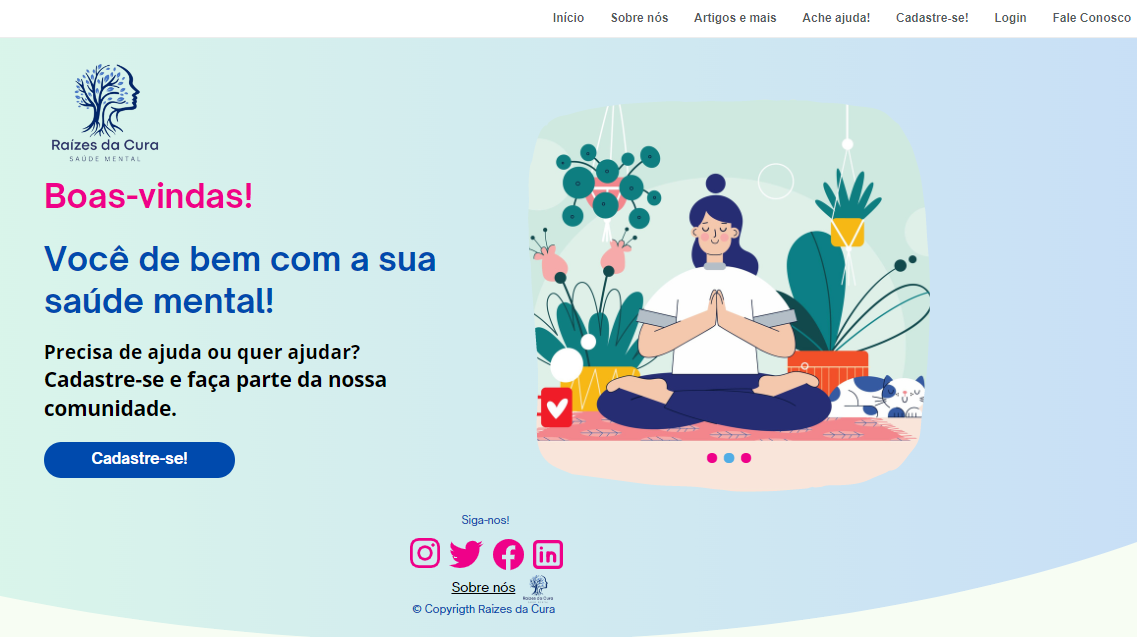
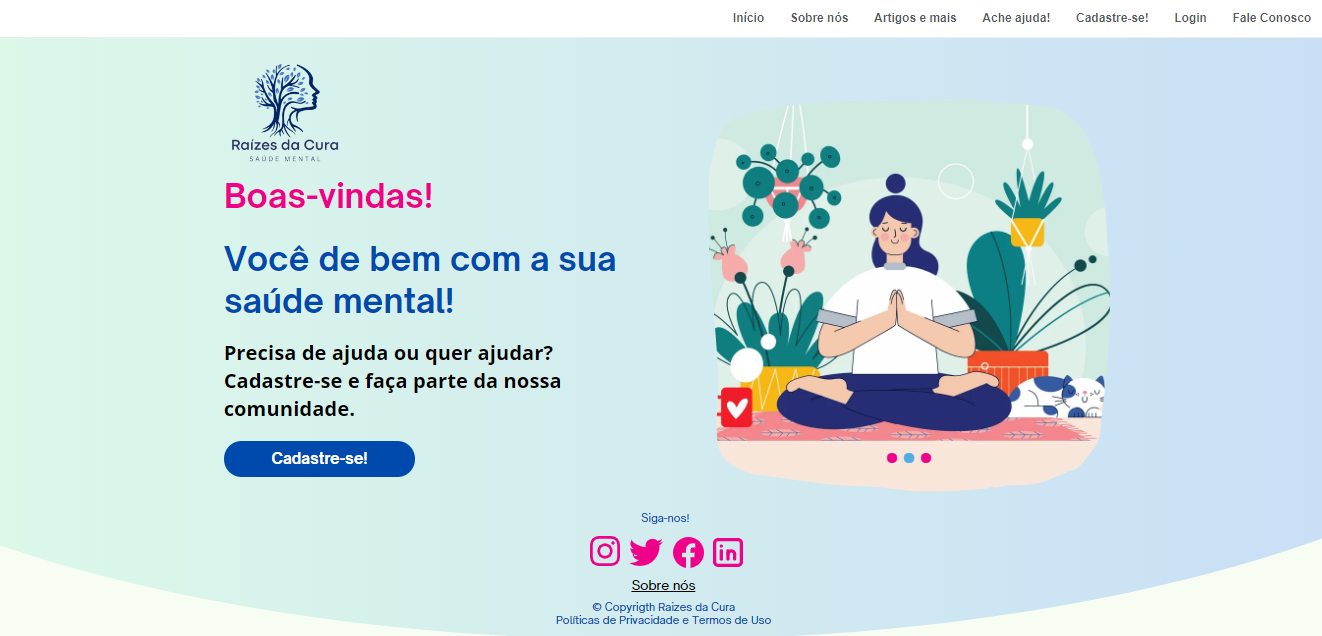
Atualizando o README e print das telas do protótipo mais ajustados à tela

diff --git a/README.md b/README.md
@@ -75,7 +75,7 @@ Opções de contato com os autores do projeto e políticas de uso e privacidade.
 ## Agradecimentos
 
 * Proz Tecnologia;
-* Professor Luth;
+* Professor [LuthGom](https://github.com/LuthGom);
 * À cada membro do projeto pela dedicação;
 * https://visualhunt.com/
 * https://www.canva.com/
